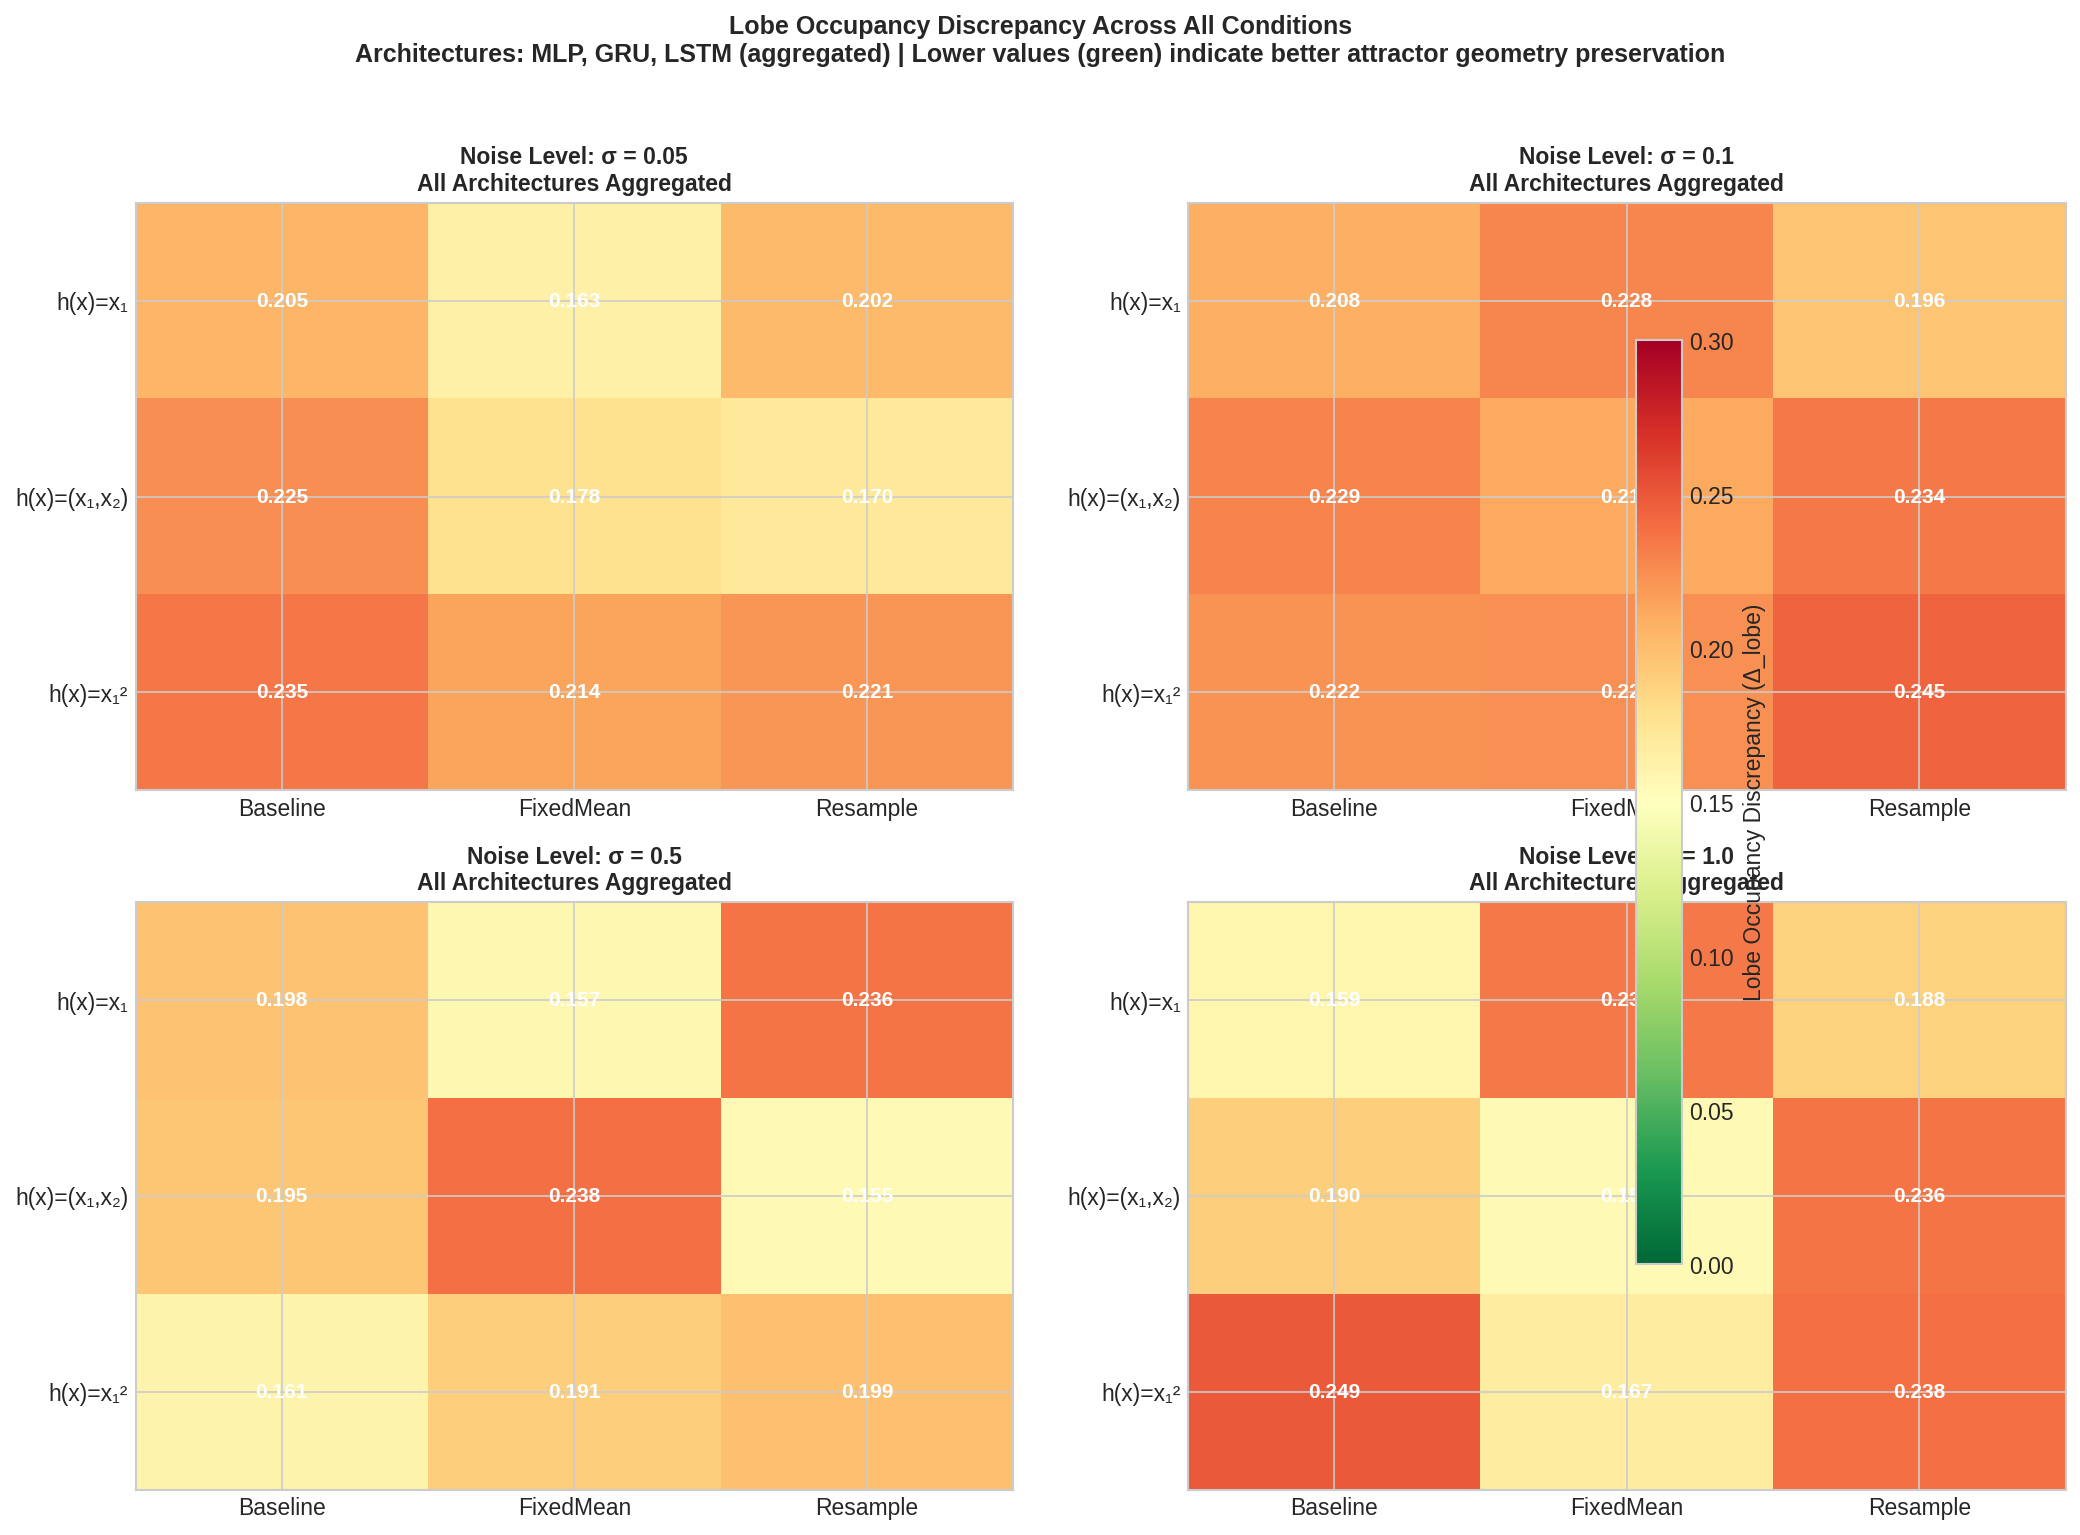
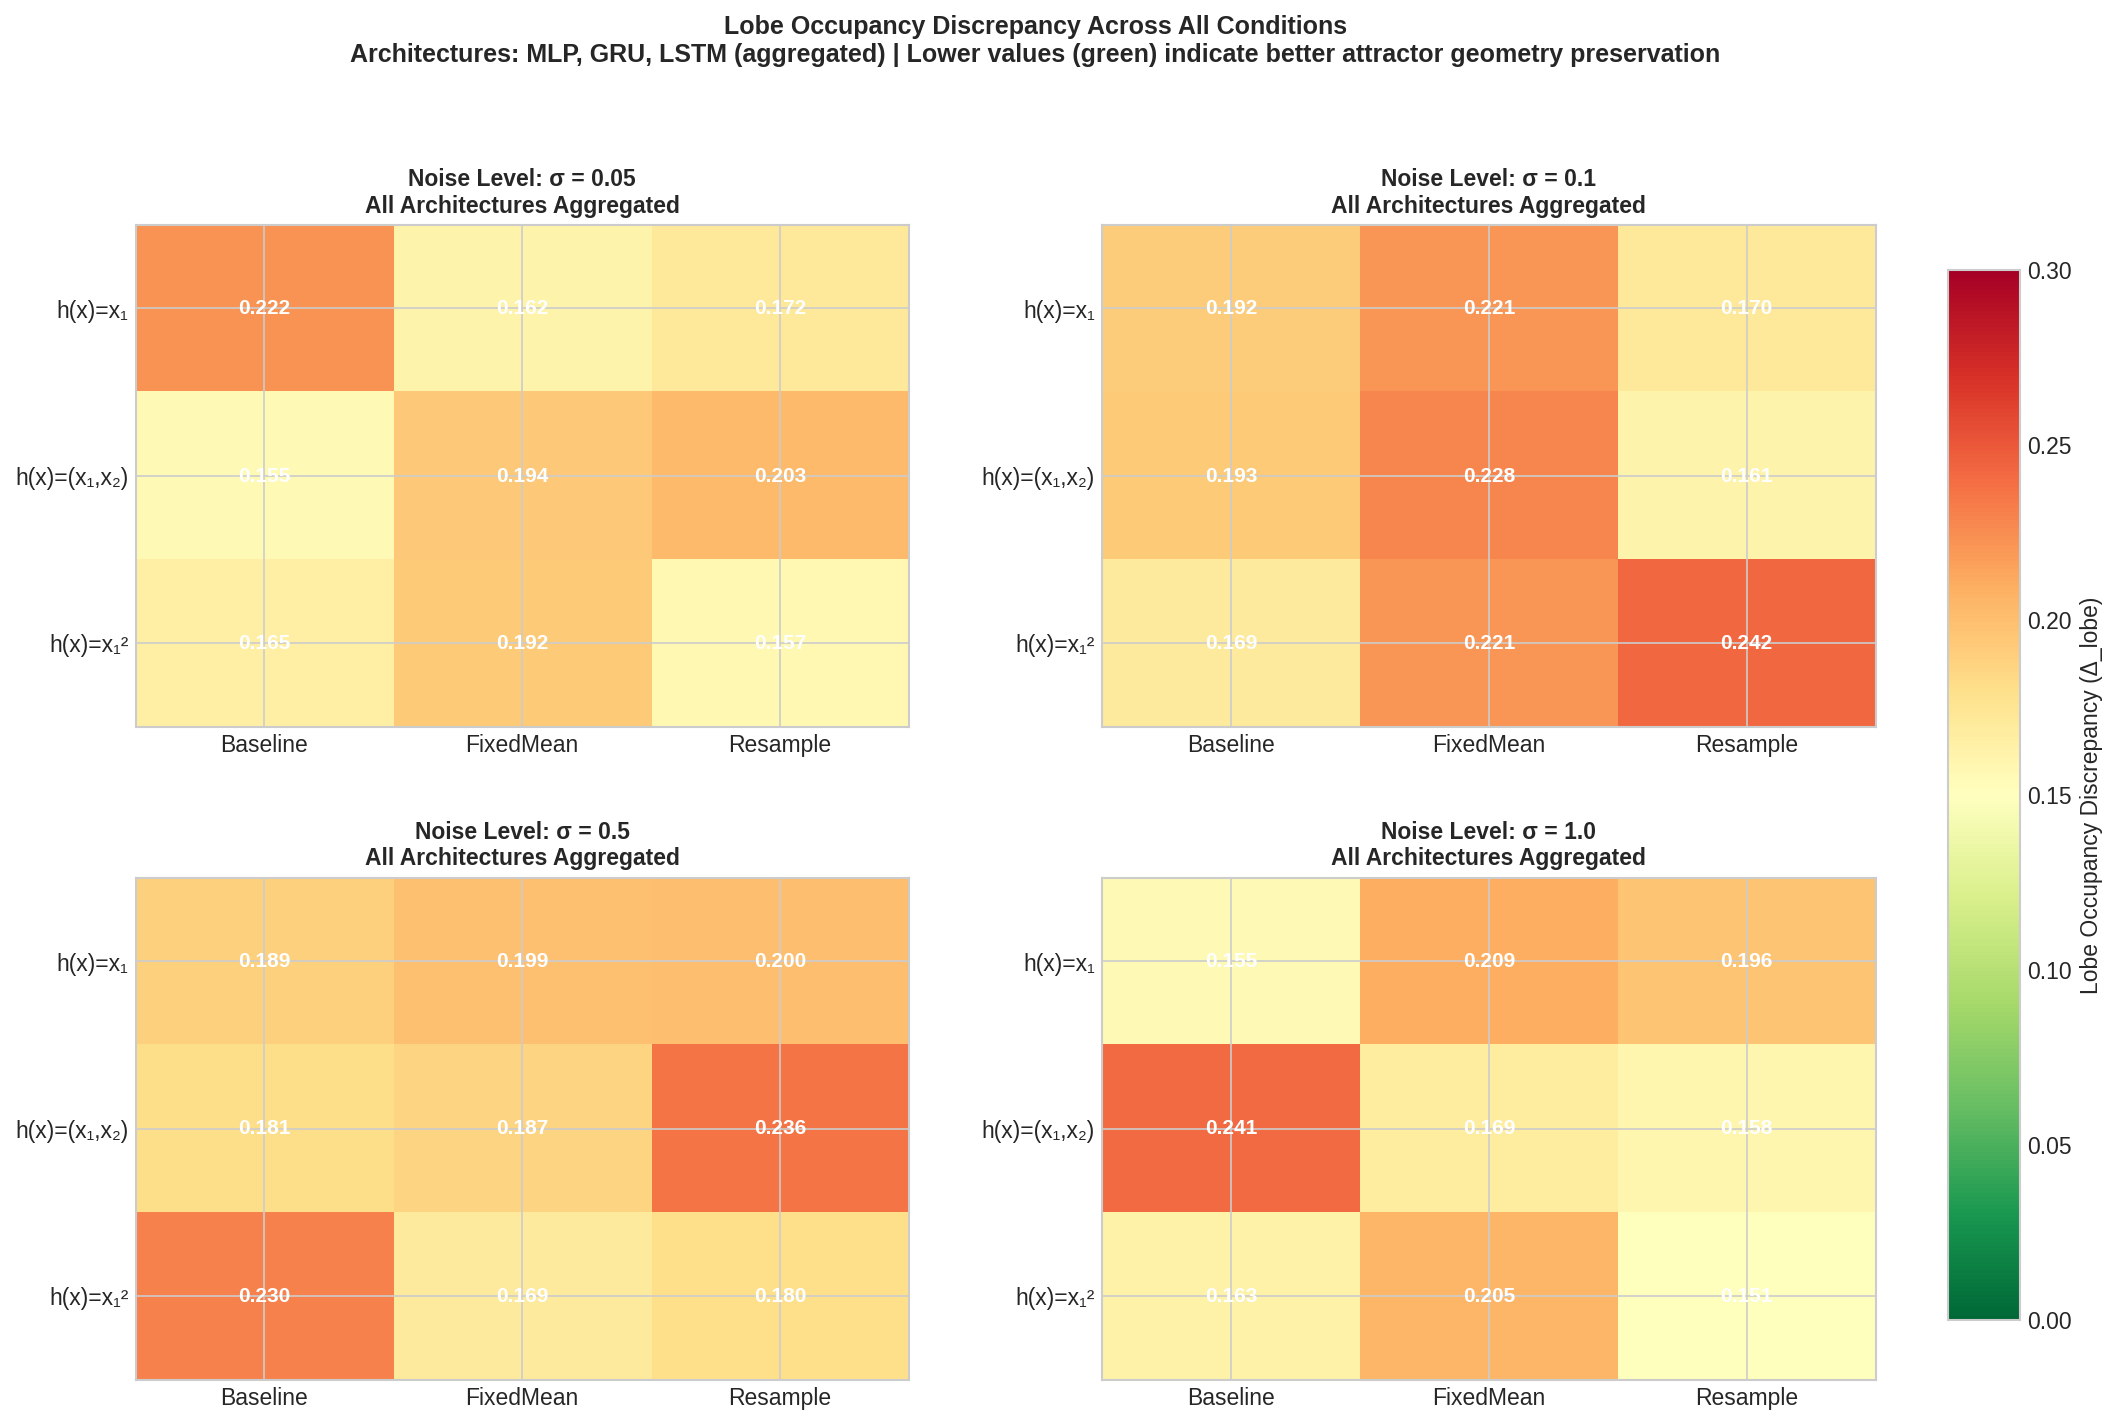
Fix figures: remove Hans references from labels and fix lobe occupancy colorbar placement

diff --git a/Report/scripts_generated/plot_lobe_occupancy_detailed.py b/Report/scripts_generated/plot_lobe_occupancy_detailed.py
@@ -70,8 +70,8 @@ def plot_lobe_occupancy_detailed():
                         })
         df = pd.DataFrame(data)
     
-    # Create figure with explicit specifications
-    fig, axes = plt.subplots(2, 2, figsize=(14, 10))
+    # Create figure with explicit specifications - extra width for colorbar
+    fig, axes = plt.subplots(2, 2, figsize=(16, 10))
     axes = axes.flatten()
     
     noise_levels = [0.05, 0.1, 0.5, 1.0]
@@ -120,9 +120,11 @@ def plot_lobe_occupancy_detailed():
         ax.set_title(f'Noise Level: σ = {noise}\nAll Architectures Aggregated',
                     fontsize=11, fontweight='bold')
     
-    # Add colorbar
-    fig.colorbar(im, ax=axes, label='Lobe Occupancy Discrepancy (Δ_lobe)', 
-                location='right', shrink=0.8)
+    # Add colorbar - positioned outside the subplots to avoid overlap
+    fig.subplots_adjust(right=0.85)
+    cbar_ax = fig.add_axes([0.88, 0.15, 0.03, 0.7])
+    cbar = fig.colorbar(im, cax=cbar_ax)
+    cbar.set_label('Lobe Occupancy Discrepancy (Δ_lobe)', fontsize=11)
     
     # MAIN TITLE with full specifications - Addresses ID 113 & 114
     fig.suptitle('Lobe Occupancy Discrepancy Across All Conditions\n'
@@ -130,7 +132,8 @@ def plot_lobe_occupancy_detailed():
                  'Lower values (green) indicate better attractor geometry preservation',
                  fontsize=12, fontweight='bold', y=1.02)
     
-    plt.tight_layout()
+    # Adjust layout - don't use tight_layout since we manually positioned colorbar
+    plt.subplots_adjust(top=0.88, hspace=0.3, wspace=0.25)
     
     output_path = os.path.join(OUTPUT_DIR, 'lobe_occupancy_detailed.png')
     plt.savefig(output_path, dpi=150, bbox_inches='tight')

diff --git a/Report/scripts_generated/plot_main_rmse_summary.py b/Report/scripts_generated/plot_main_rmse_summary.py
@@ -121,7 +121,7 @@ def plot_main_rmse_summary():
             ax.legend(loc='upper left')
     
     fig.suptitle('Post-Assimilation RMSE Comparison\n'
-                 'All Architectures (MLP, GRU, LSTM) Averaged | Single Metric Focus per Hans',
+                 'All Architectures (MLP, GRU, LSTM) Averaged | Single Metric Focus',
                  fontsize=13, fontweight='bold')
     
     plt.tight_layout()

diff --git a/Report/scripts_generated/plot_rmse_consolidated.py b/Report/scripts_generated/plot_rmse_consolidated.py
@@ -186,7 +186,7 @@ def plot_rmse_consolidated():
     
     # Main title
     fig.suptitle('Consolidated RMSE Analysis\n'
-                 '(Combines multiple figures as suggested by Hans - ID 111)',
+                 '(Multiple metrics combined into single figure)',
                  fontsize=14, fontweight='bold', y=1.02)
     
     plt.tight_layout()
